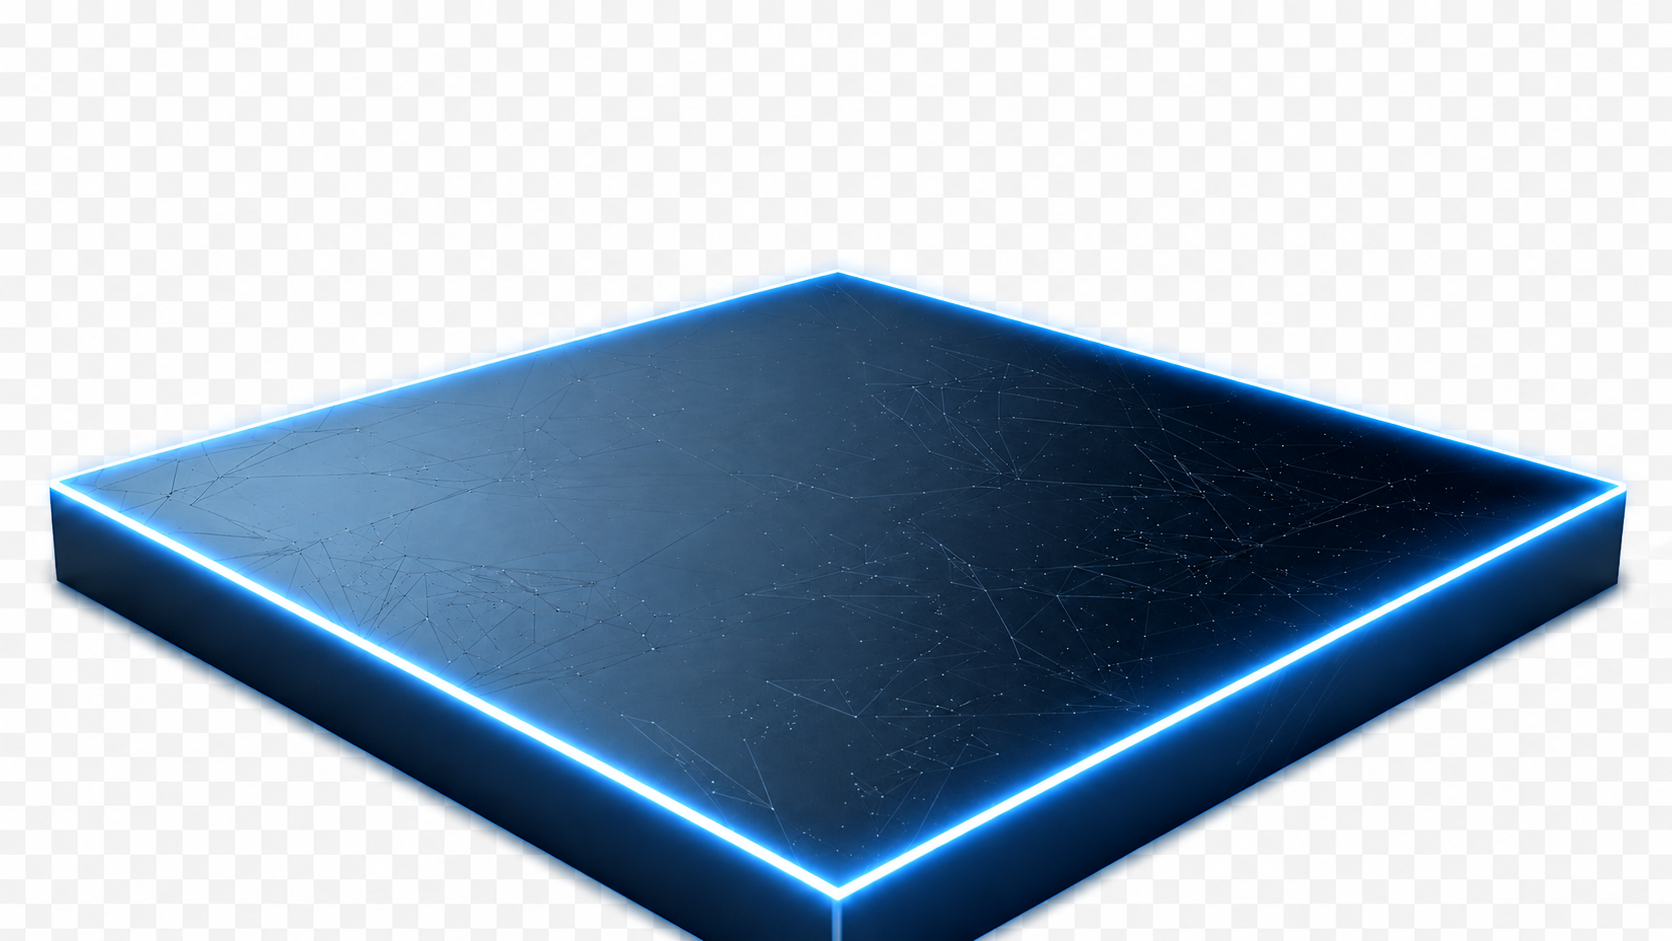
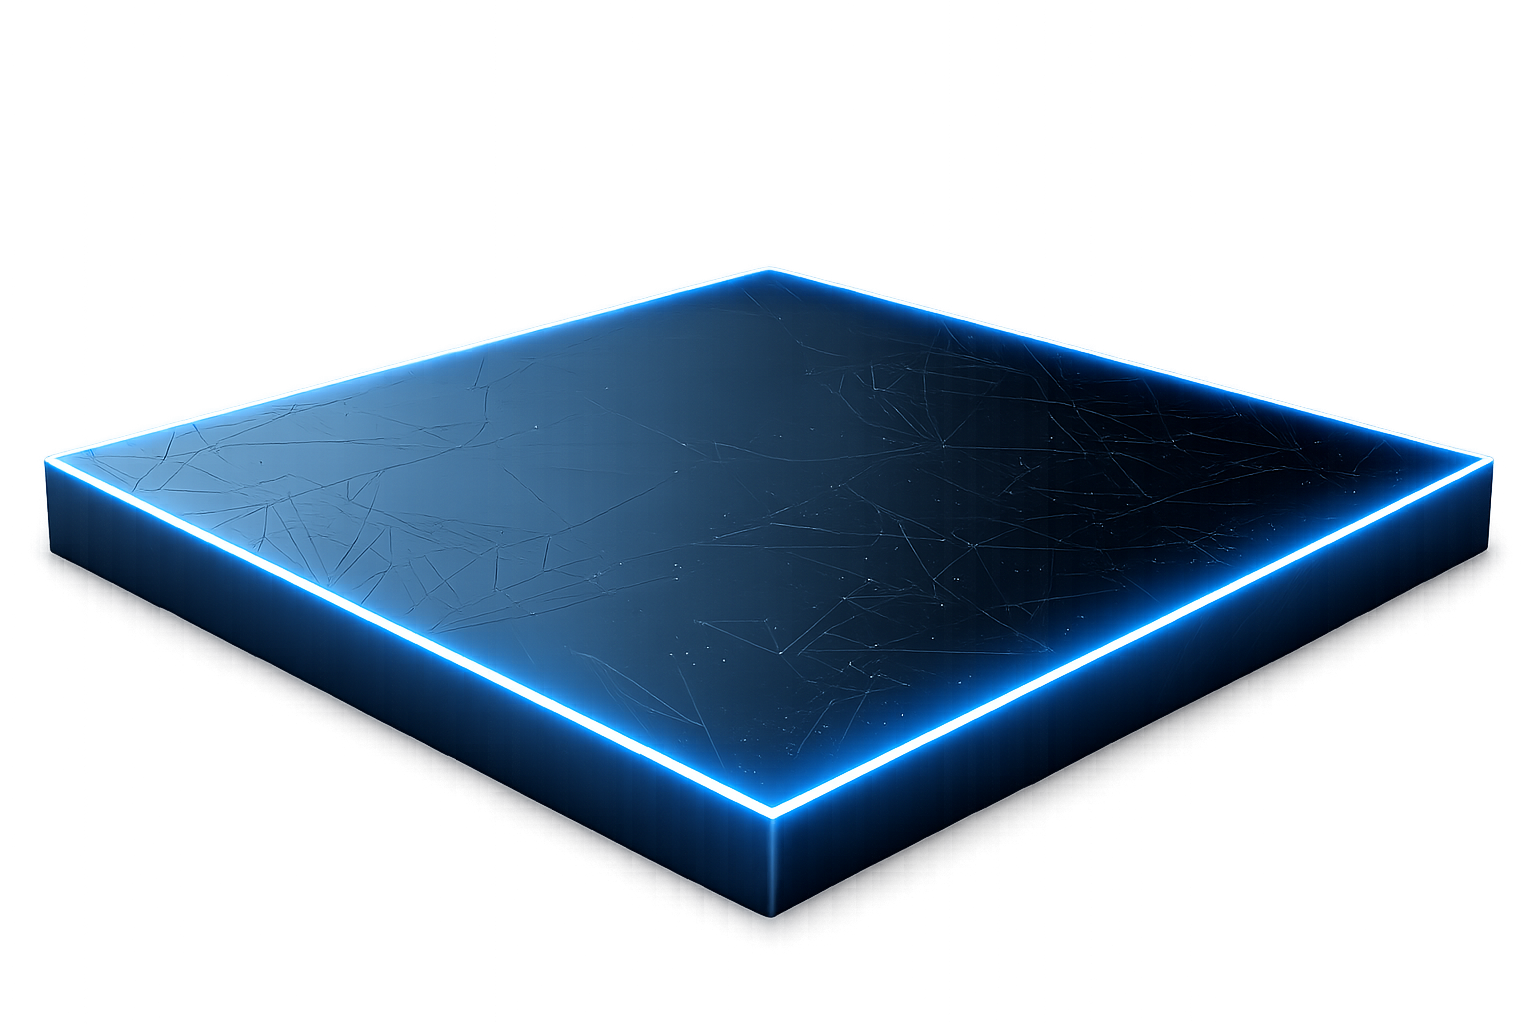
dashboard: update background.png and zoom platform 10% via CSS
background-size changed from 'cover' to '110% auto' to zoom in ~10%.

diff --git a/www/dashboard.html b/www/dashboard.html
@@ -49,11 +49,11 @@ html, body {
 /* NETZ label widget (no image, same drag/click system as other widgets) */
 #w-grid-label { --wc: #00EEFF; width: 200px; }
 
-/* Layer 3: platform */
+/* Layer 3: platform — 110% zooms in ~10% relative to cover */
 #stage-bg {
   position: absolute;
   inset: 0;
-  background: url('img/dashboard/background.png') center / cover no-repeat;
+  background: url('img/dashboard/background.png') center / 110% auto no-repeat;
   z-index: 2;
 }
 